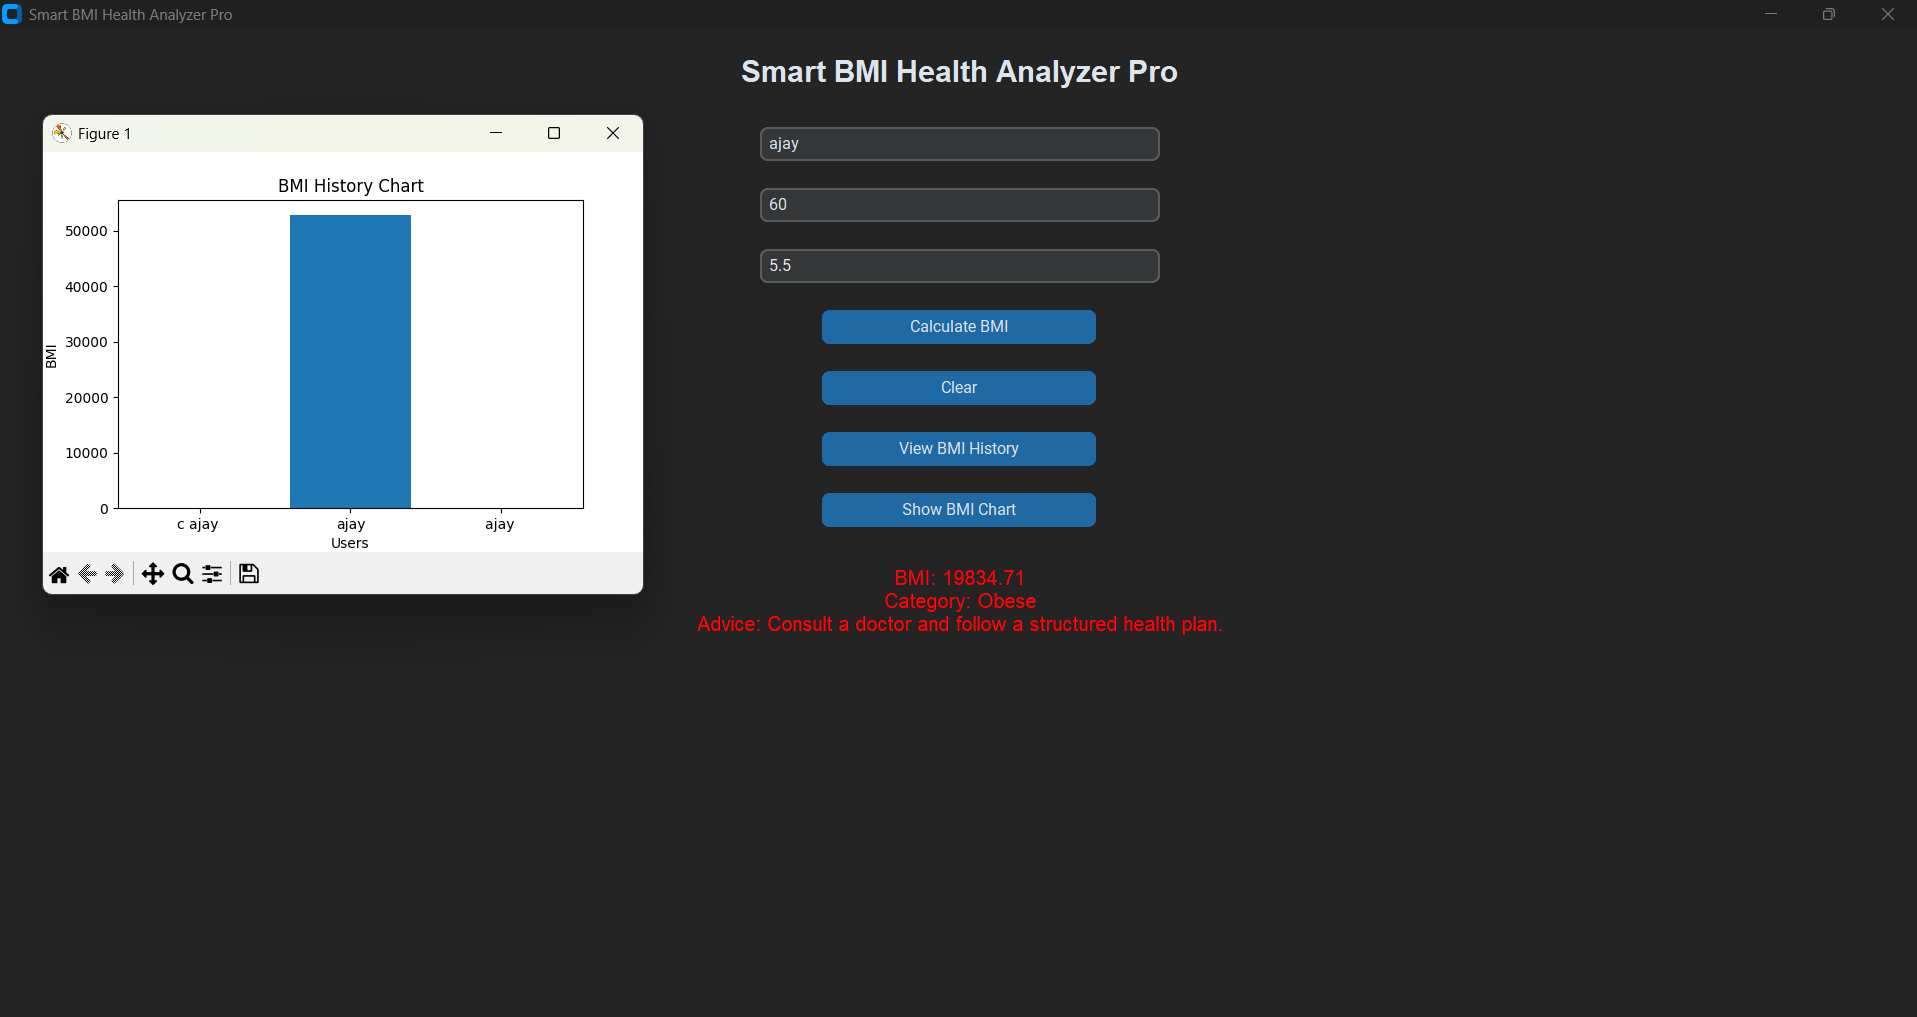
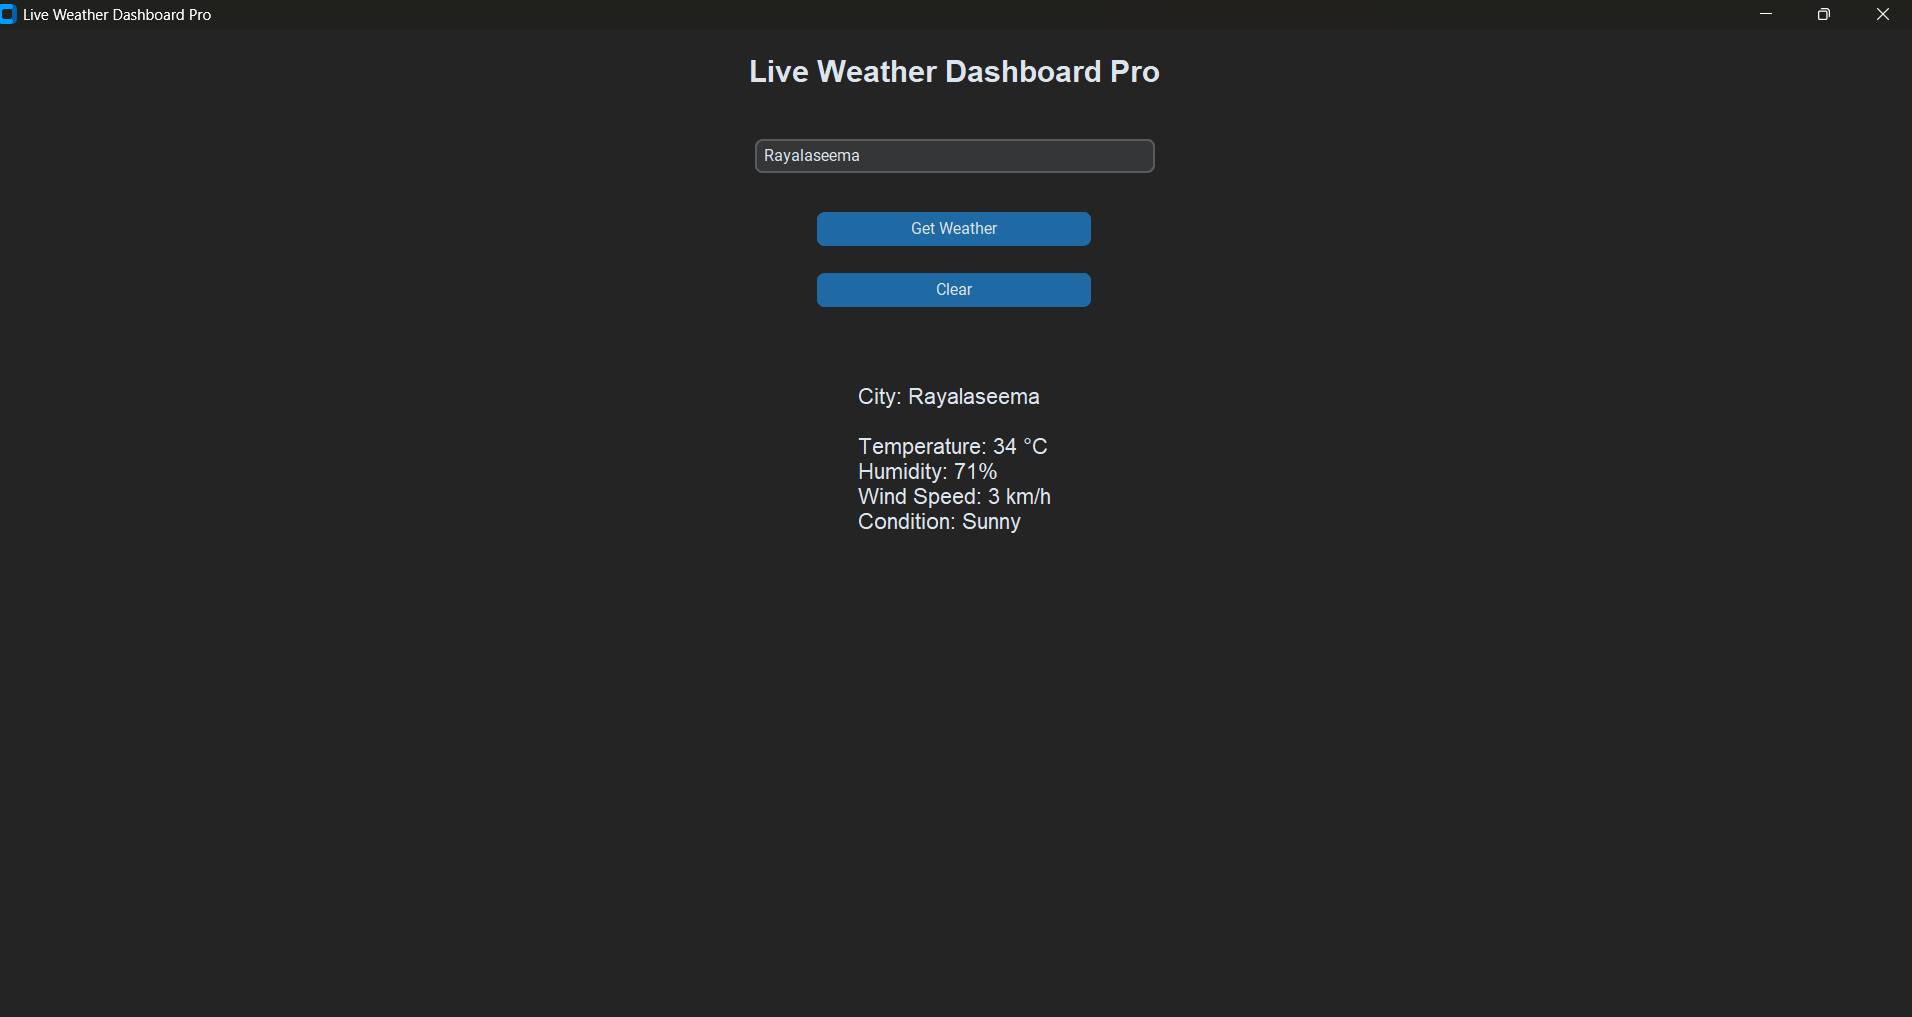
Added Live Weather Dashboard project

diff --git a/weather_app.py b/weather_app.py
@@ -1,0 +1,90 @@
+import customtkinter as ctk
+from tkinter import messagebox
+import random
+
+ctk.set_appearance_mode("dark")
+ctk.set_default_color_theme("blue")
+
+
+weather_conditions = [
+    "Sunny",
+    "Cloudy",
+    "Rainy",
+    "Stormy",
+    "Windy",
+    "Foggy"
+]
+
+
+def get_weather():
+    city = city_entry.get().strip()
+
+    if city == "":
+        messagebox.showerror("Error", "Please enter city name")
+        return
+
+    temp = random.randint(20, 38)
+    humidity = random.randint(40, 95)
+    wind = random.randint(2, 20)
+    condition = random.choice(weather_conditions)
+
+    result_label.configure(
+        text=f"""
+City: {city}
+
+Temperature: {temp} °C
+Humidity: {humidity}%
+Wind Speed: {wind} km/h
+Condition: {condition}
+"""
+    )
+
+
+def clear_data():
+    city_entry.delete(0, "end")
+    result_label.configure(text="")
+
+
+app = ctk.CTk()
+app.title("Live Weather Dashboard Pro")
+app.geometry("550x600")
+
+title = ctk.CTkLabel(
+    app,
+    text="Live Weather Dashboard Pro",
+    font=("Arial", 24, "bold")
+)
+title.pack(pady=20)
+
+city_entry = ctk.CTkEntry(
+    app,
+    placeholder_text="Enter City Name",
+    width=320
+)
+city_entry.pack(pady=20)
+
+search_btn = ctk.CTkButton(
+    app,
+    text="Get Weather",
+    command=get_weather,
+    width=220
+)
+search_btn.pack(pady=10)
+
+clear_btn = ctk.CTkButton(
+    app,
+    text="Clear",
+    command=clear_data,
+    width=220
+)
+clear_btn.pack(pady=10)
+
+result_label = ctk.CTkLabel(
+    app,
+    text="",
+    font=("Arial", 18),
+    justify="left"
+)
+result_label.pack(pady=30)
+
+app.mainloop()
